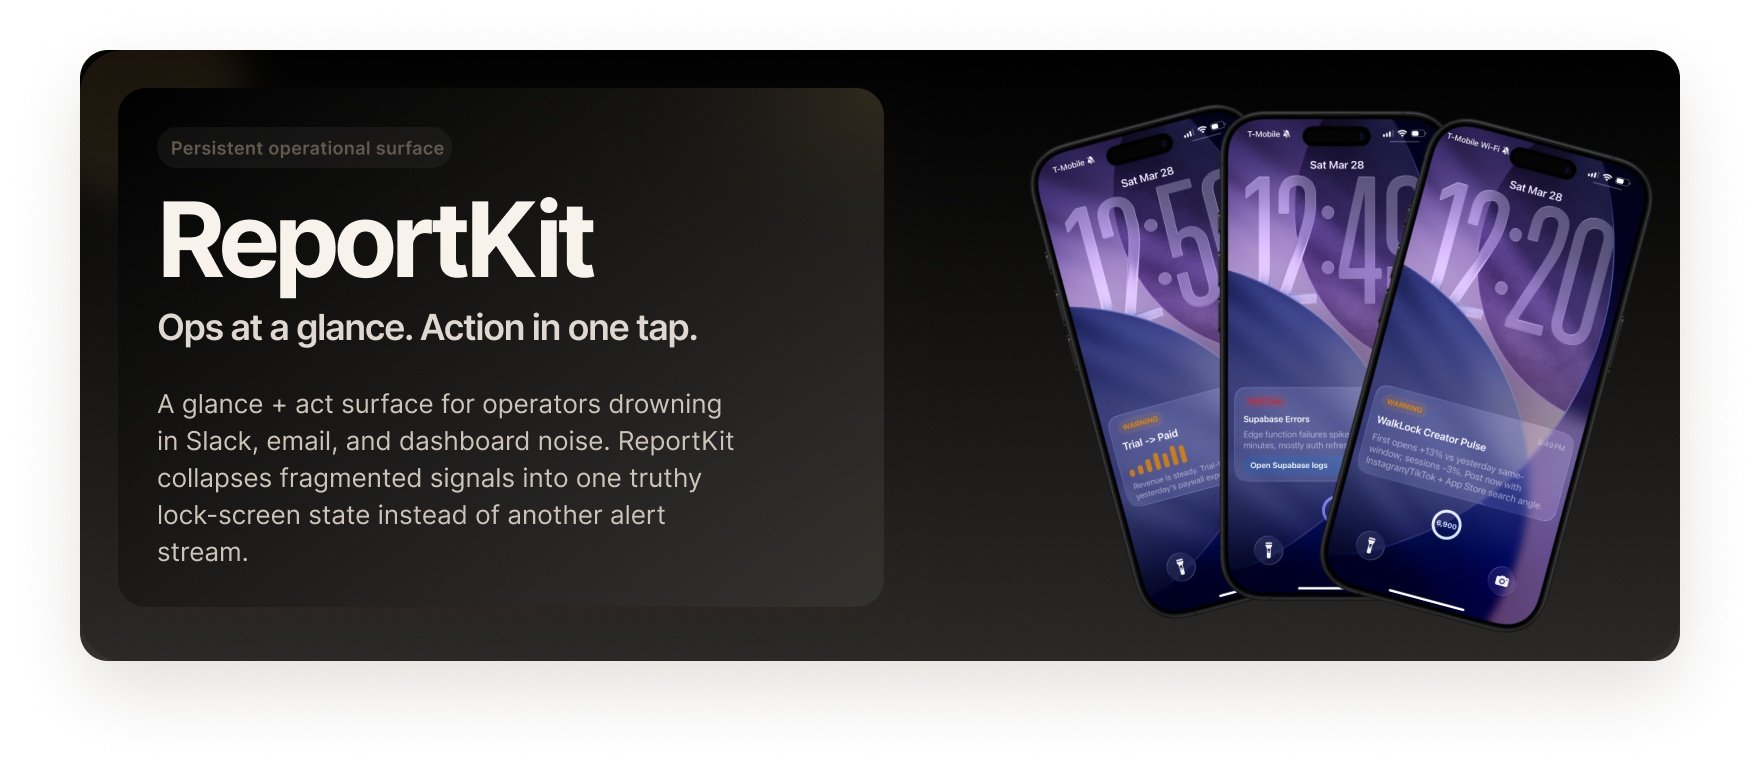
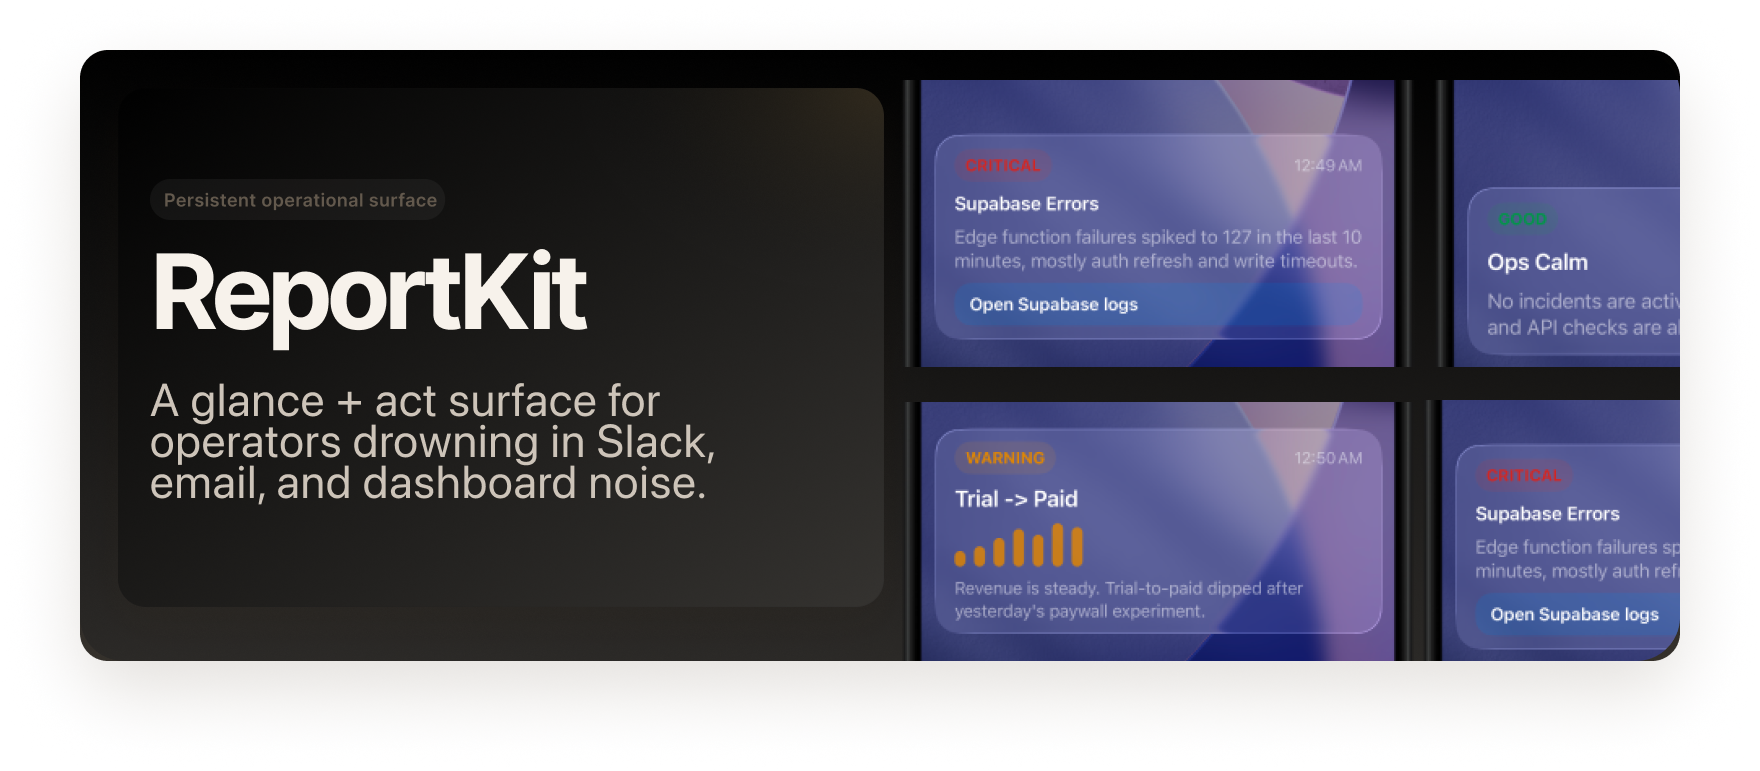
slight branding updates

diff --git a/README.md b/README.md
@@ -1,4 +1,4 @@
-# ReportKit Simple v2
+# ReportKit Beta
 
 ![ReportKit README bento](docs/assets/reportkit-readme-bento.png)
 
@@ -9,7 +9,7 @@ Minimal parallel implementation of ReportKit focused on one job:
 - send simple Live Activity updates
 - schedule reports through your Codex/Claude workflow
 
-This lives beside the existing ReportKit implementation. It does not replace the current root yet.
+This is the current beta implementation of ReportKit. It lives beside the existing implementation and does not replace the current root yet.
 
 ## Structure
 

diff --git a/docs/architecture.md b/docs/architecture.md
@@ -1,8 +1,8 @@
-# ReportKit Simple v2 Architecture
+# ReportKit Beta Architecture
 
 ## Intent
 
-ReportKit Simple is a minimal parallel implementation focused only on:
+ReportKit Beta is a minimal parallel implementation focused only on:
 
 - Supabase email/password login on both CLI and iOS.
 - Device token upload via existing `reportkit-token` and `reportkit-device-token` endpoints.

diff --git a/docs/reportkit-simple-skill.md b/docs/reportkit-simple-skill.md
@@ -1,7 +1,7 @@
-# ReportKitSimple Agent Skill
+# ReportKit Beta Agent Skill
 
 ## Scope
-- Help a user set up ReportKitSimple with shared Supabase auth.
+- Help a user set up ReportKit Beta with shared Supabase auth.
 - Help define when to send Live Activity updates.
 - Do **not** configure cron in this project. Scheduling belongs to Codex/Claude workflows.
 
